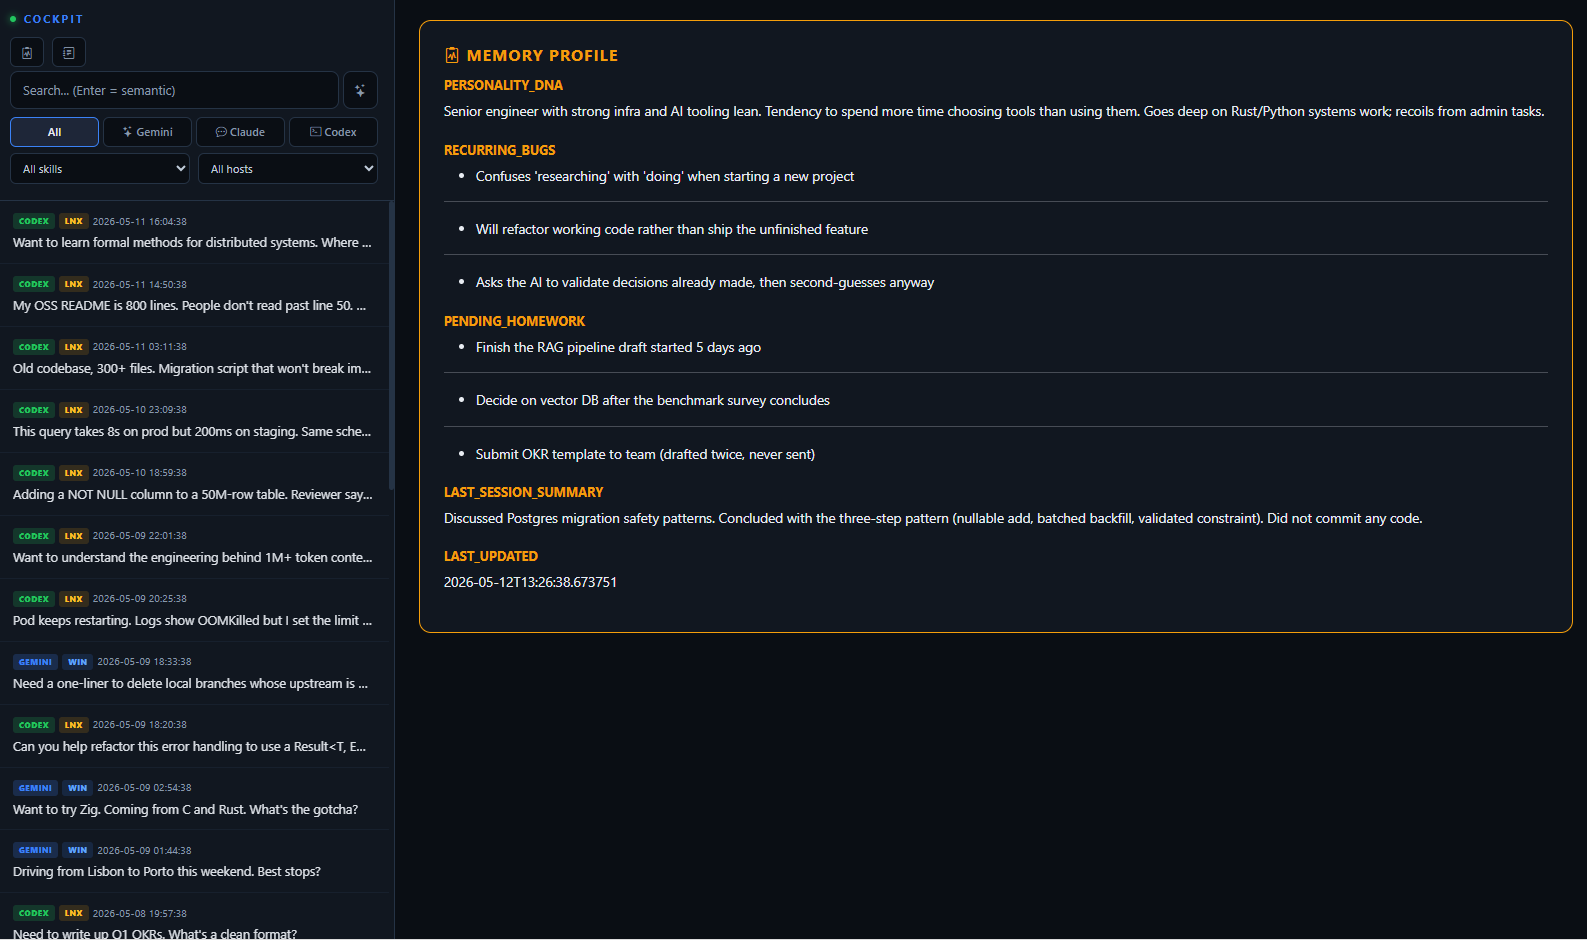
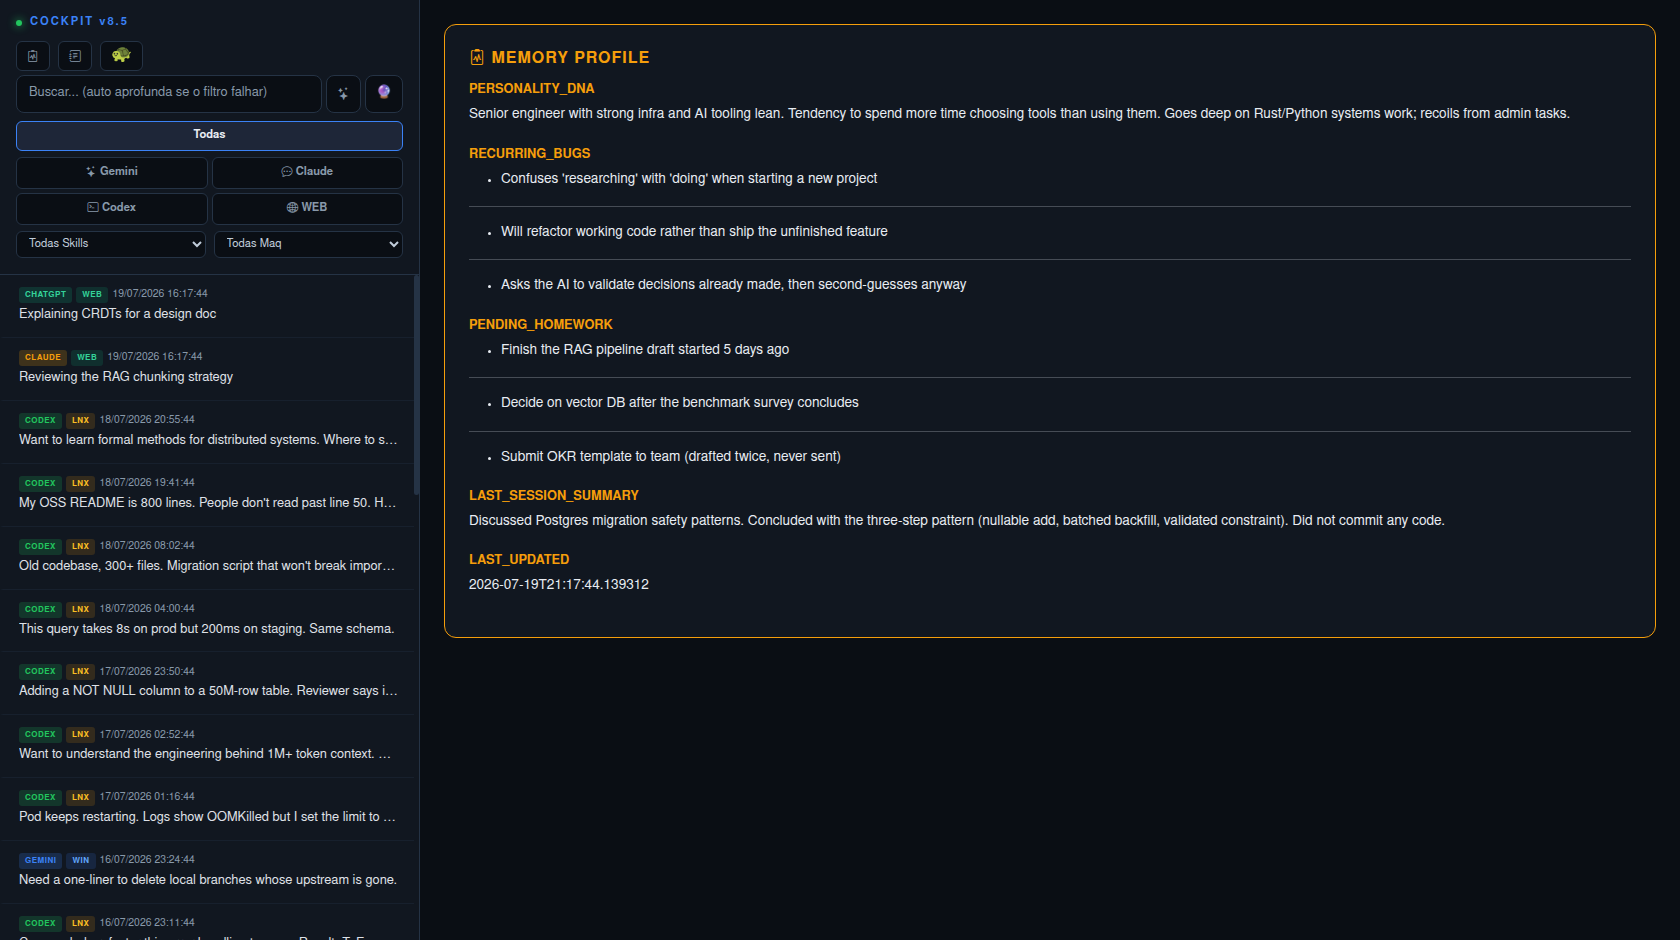
docs: replace all screenshots with fresh demo-data captures
Old captures were from v5.x and showed features/layouts that no longer
match the code. New set is taken against the seeded demo instance (no
real data): sidebar+WEB chat with original-URL header, Ask the
Panopticon, daily audit dashboard, memory profile, and the two-layer
injected memory view. Also fix a stale user-memory.md label.

diff --git a/app/cockpit.py b/app/cockpit.py
@@ -2131,7 +2131,7 @@ pre{background:#010409;padding:14px;border-radius:8px;border:1px solid #1e2a3a;o
                 html += '<div style="font-size:0.7rem;color:#6a7a8a;margin:-6px 0 16px;">Dynamic assistant context: long-term core plus recent working memory. Static identity/profile data stays separate.</div>';
                 html += '<div class="dna-section"><strong>📌 LONGO PRAZO &mdash; core (só muda por contradição)</strong>';
                 html += `<div style="font-size:0.9rem;margin-top:6px;">${coreMd ? marked.parse(coreMd) : '<em style="color:#6a7a8a;">Núcleo ainda não gerado — roda 23:45.</em>'}</div></div>`;
-                html += '<div class="dna-section" style="margin-top:16px;"><strong>🗓 CURTO PRAZO &mdash; user-memory.md (janela 30 dias)</strong>';
+                html += '<div class="dna-section" style="margin-top:16px;"><strong>🗓 CURTO PRAZO &mdash; user-memoria.md (janela 30 dias)</strong>';
                 html += `<div style="font-size:0.9rem;margin-top:6px;">${memMd ? marked.parse(memMd) : '<em style="color:#6a7a8a;">Sem memória de curto prazo.</em>'}</div></div>`;
                 html += '</div>';
                 container.innerHTML = html;
